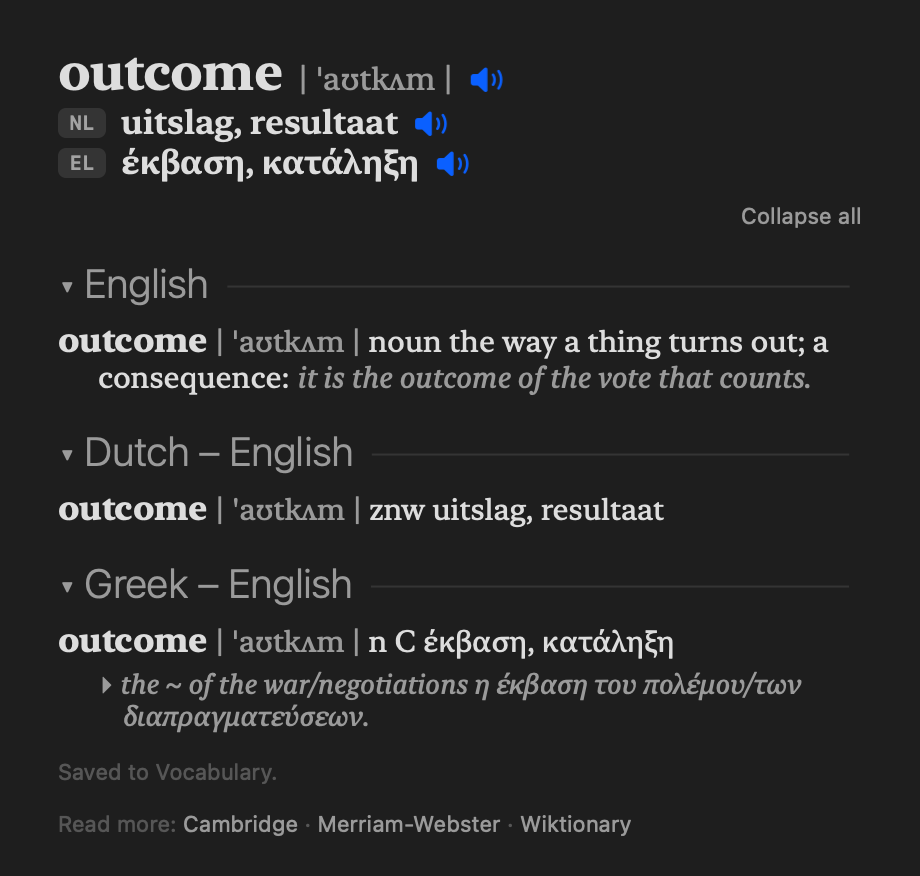
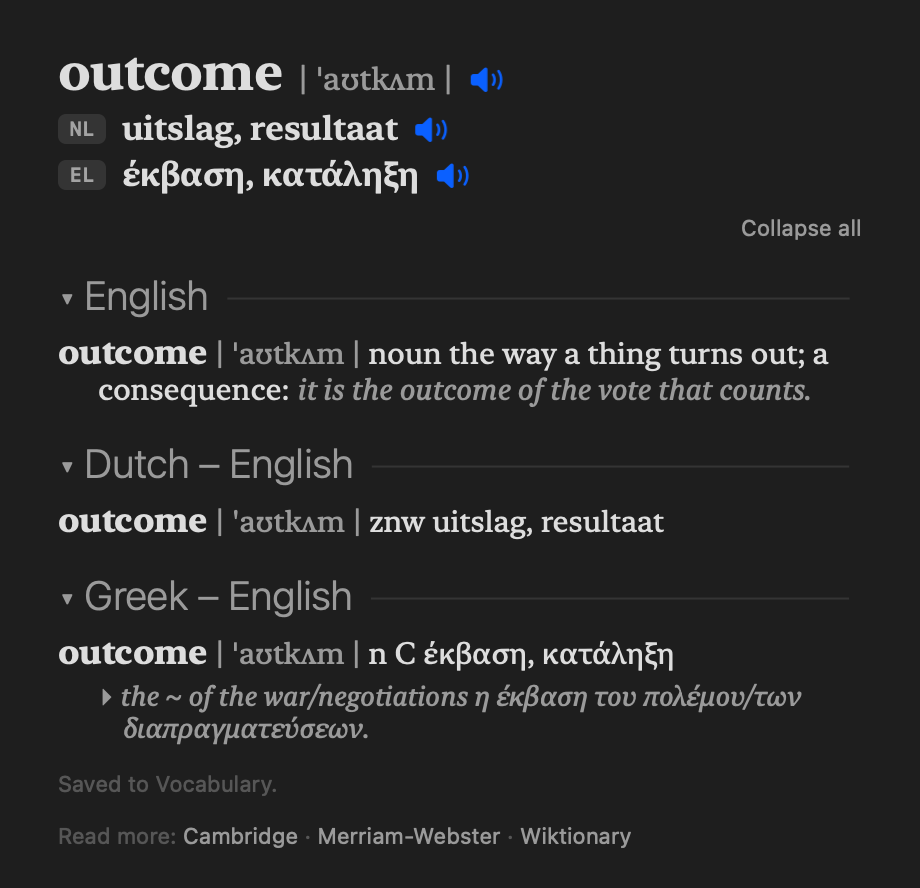
Card: a wrapped translation indented, its speaker kept with the last word; a GIF of the type-a-word box
A long translation wrapped back under its language badge, and the speaker icon could
land alone on the next line ("run" in Dutch). The gap after the badge is now a tab
with wrapped lines indented to it, and no-break spaces and a word joiner keep the icon
with the last word. make-demo.swift draws docs/mode-type.gif: ⌃⌘L, "liep" typed into
the box, Return, and its card; the README shows it under "Or type it". Card images and
GIFs re-rendered.

diff --git a/scripts/make-demo.swift b/scripts/make-demo.swift
@@ -1,4 +1,4 @@
-// Draws docs/demo.gif: a sentence in each language, the pointer moving to a word, a double-tap of ⌥, and the card
+// Draws docs/demo.gif (and the three mode GIFs: selecting, pointing, the type-a-word box): a sentence in each language, the pointer moving to a word, a double-tap of ⌥, and the card
 // Lookup Word shows for it, with the four steps numbered along the bottom. The cards are the app's own, from `LookupWord --render WORD LANG docs/card-….png`; the
 // window, pointer and steps around them are drawn here.
 //
@@ -209,6 +209,92 @@ do {
     scr += tap(at: on, selected: 0)
     scr.append((frame(sc, pointerAt: on, step: 0, card: card, wordRect: w), 3))
     gif("mode-screen.gif", scr, crop: crop)
+}
+
+// the type-a-word box: ⌃⌘L, the box near the top (as Type.swift lays it out: 400 × 44, the magnifier, the field, ⓧ and
+// the pin), the word typed letter by letter, Return, and its card hanging below the box
+do {
+    let sc = Scene(language: "Notes", sentence: "Words to look up later: liep, outcome, είδε.", word: "liep", card: "card-dutch.png")
+    let card = NSImage(contentsOf: docs.appendingPathComponent(sc.card))!
+    card.size = NSSize(width: CGFloat(card.representations[0].pixelsWide) / 2, height: CGFloat(card.representations[0].pixelsHigh) / 2)
+    let box = NSRect(x: (W - 400) / 2, y: 70, width: 400, height: 44)
+    func symbol(_ name: String, _ size: CGFloat, _ color: NSColor, in r: NSRect) {
+        guard let img = NSImage(systemSymbolName: name, accessibilityDescription: nil)?
+            .withSymbolConfiguration(.init(pointSize: size, weight: .regular).applying(.init(paletteColors: [color]))) else { return }
+        img.draw(in: NSRect(x: r.midX - img.size.width / 2, y: r.midY - img.size.height / 2, width: img.size.width, height: img.size.height),
+                 from: .zero, operation: .sourceOver, fraction: 1, respectFlipped: true, hints: nil)
+    }
+    // the keys pressed, as chips in the window's lower right, lit while down
+    func keys(_ labels: [String], lit: Bool) {
+        var x = window.maxX - 30
+        for label in labels.reversed() {
+            let t = NSAttributedString(string: label, attributes: [.font: NSFont.systemFont(ofSize: 22, weight: .medium),
+                                                                   .foregroundColor: lit ? NSColor(white: 0.1, alpha: 1) : NSColor(white: 0.95, alpha: 1)])
+            let r = NSRect(x: x - max(56, t.size().width + 28), y: window.maxY - 82, width: max(56, t.size().width + 28), height: 52)
+            (lit ? NSColor(red: 0.5, green: 0.88, blue: 0.69, alpha: 1) : NSColor(white: 0.32, alpha: 1)).setFill()
+            NSBezierPath(roundedRect: r, xRadius: 10, yRadius: 10).fill()
+            t.draw(at: NSPoint(x: r.midX - t.size().width / 2, y: r.midY - t.size().height / 2))
+            x = r.minX - 10
+        }
+    }
+    func typeFrame(_ text: String?, keysDown: [String] = [], lit: Bool = false, showCard: Bool = false) -> CGImage {
+        let rep = NSBitmapImageRep(bitmapDataPlanes: nil, pixelsWide: Int(W), pixelsHigh: Int(H), bitsPerSample: 8, samplesPerPixel: 4,
+                                   hasAlpha: true, isPlanar: false, colorSpaceName: .deviceRGB, bytesPerRow: 0, bitsPerPixel: 0)!
+        let ctx = NSGraphicsContext(bitmapImageRep: rep)!
+        ctx.cgContext.translateBy(x: 0, y: H); ctx.cgContext.scaleBy(x: 1, y: -1)
+        NSGraphicsContext.current = NSGraphicsContext(cgContext: ctx.cgContext, flipped: true)
+        background.setFill(); NSRect(x: 0, y: 0, width: W, height: H).fill()
+        windowColor.setFill(); NSBezierPath(roundedRect: window, xRadius: 12, yRadius: 12).fill()
+        for (i, c) in [NSColor.systemRed, .systemYellow, .systemGreen].enumerated() {
+            c.setFill(); NSBezierPath(ovalIn: NSRect(x: window.minX + 18 + CGFloat(i) * 20, y: window.minY + 14, width: 12, height: 12)).fill()
+        }
+        NSAttributedString(string: sc.language, attributes: [.font: NSFont.systemFont(ofSize: 13, weight: .medium), .foregroundColor: NSColor(white: 1, alpha: 0.5)])
+            .draw(at: NSPoint(x: window.midX - 20, y: window.minY + 11))
+        NSAttributedString(string: sc.sentence, attributes: [.font: textFont, .foregroundColor: NSColor(white: 0.92, alpha: 1)]).draw(at: textOrigin)
+        if let text {
+            NSGraphicsContext.current?.saveGraphicsState()
+            let shadow = NSShadow(); shadow.shadowBlurRadius = 14; shadow.shadowOffset = NSSize(width: 0, height: -4)
+            shadow.shadowColor = NSColor(white: 0, alpha: 0.35); shadow.set()
+            NSColor(white: 0.2, alpha: 1).setFill(); NSBezierPath(roundedRect: box, xRadius: 10, yRadius: 10).fill()
+            NSGraphicsContext.current?.restoreGraphicsState()
+            symbol("text.magnifyingglass", 15, NSColor(white: 1, alpha: 0.55), in: NSRect(x: box.minX + 14, y: box.minY + 12, width: 20, height: 20))
+            let font = NSFont.systemFont(ofSize: 16)
+            let shown = NSAttributedString(string: text.isEmpty ? "Type a word, then Return" : text,
+                                           attributes: [.font: font, .foregroundColor: NSColor(white: 1, alpha: text.isEmpty ? 0.3 : 0.92)])
+            shown.draw(at: NSPoint(x: box.minX + 44, y: box.midY - shown.size().height / 2))
+            let caretX = box.minX + 44 + (text.isEmpty ? 0 : shown.size().width) + 1
+            NSColor.controlAccentColor.setFill(); NSRect(x: caretX, y: box.midY - 10, width: 2, height: 20).fill()
+            if !text.isEmpty { symbol("xmark.circle.fill", 13, NSColor(white: 1, alpha: 0.3), in: NSRect(x: box.maxX - 64, y: box.minY + 10, width: 24, height: 24)) }
+            symbol("pin", 13, NSColor(white: 1, alpha: 0.55), in: NSRect(x: box.maxX - 38, y: box.minY + 10, width: 24, height: 24))
+        }
+        if showCard {
+            // the card's top part, below the box, with an arrow up to it
+            let width: CGFloat = 420, src = NSRect(x: 0, y: card.size.height - min(card.size.height, 300), width: card.size.width, height: min(card.size.height, 300))
+            let r = NSRect(x: box.midX - width / 2, y: box.maxY + 14, width: width, height: width * src.height / src.width)
+            NSGraphicsContext.current?.saveGraphicsState()
+            let shadow = NSShadow(); shadow.shadowBlurRadius = 18; shadow.shadowColor = NSColor(white: 0, alpha: 0.6); shadow.set()
+            let arrow = NSBezierPath()
+            arrow.move(to: NSPoint(x: box.midX - 11, y: r.minY + 1)); arrow.line(to: NSPoint(x: box.midX, y: r.minY - 11))
+            arrow.line(to: NSPoint(x: box.midX + 11, y: r.minY + 1)); arrow.close()
+            NSColor(white: 0.12, alpha: 1).setFill()
+            let body = NSBezierPath(roundedRect: r, xRadius: 10, yRadius: 10); body.append(arrow); body.fill()
+            NSGraphicsContext.current?.restoreGraphicsState()
+            NSGraphicsContext.current?.saveGraphicsState()
+            NSBezierPath(roundedRect: r, xRadius: 10, yRadius: 10).addClip()
+            card.draw(in: r, from: src, operation: .sourceOver, fraction: 1, respectFlipped: true, hints: [.interpolation: NSImageInterpolation.high])
+            NSGraphicsContext.current?.restoreGraphicsState()
+        }
+        if !keysDown.isEmpty { keys(keysDown, lit: lit) }
+        NSGraphicsContext.current = nil
+        return rep.cgImage!
+    }
+    let shortcut = ["⌃", "⌘", "L"]
+    var typed = [(typeFrame(nil), 0.8), (typeFrame(nil, keysDown: shortcut), 0.3), (typeFrame(nil, keysDown: shortcut, lit: true), 0.25),
+                 (typeFrame("", keysDown: shortcut), 0.6)]
+    for n in 1...sc.word.count { typed.append((typeFrame(String(sc.word.prefix(n))), 0.18)) }
+    typed += [(typeFrame(sc.word, keysDown: ["↩ return"]), 0.35), (typeFrame(sc.word, keysDown: ["↩ return"], lit: true), 0.2),
+              (typeFrame(sc.word, showCard: true), 3.5)]
+    gif("mode-type.gif", typed, crop: CGRect(x: 20, y: 20, width: W - 40, height: H - 40))
 }
 
 let out = docs.appendingPathComponent("demo.gif")

diff --git a/Sources/LookupWord/Card.swift b/Sources/LookupWord/Card.swift
@@ -38,7 +38,8 @@ func badge(_ code: String) -> NSAttributedString {
 // a speaker button that says the text in that language: the system's speaker symbol, in the accent colour
 func speaker(_ text: String, _ lang: String, size: CGFloat = 14) -> NSAttributedString {
     var u = URLComponents(); u.scheme = "say"; u.host = lang; u.queryItems = [URLQueryItem(name: "t", value: text)]
-    let out = NSMutableAttributedString(string: "  ")
+    // no-break spaces and a word joiner: the icon wraps with the last word, never onto a line of its own
+    let out = NSMutableAttributedString(string: "\u{00A0}\u{00A0}\u{2060}")
     let config = NSImage.SymbolConfiguration(pointSize: size, weight: .medium).applying(.init(paletteColors: [.controlAccentColor]))
     if let image = NSImage(systemSymbolName: "speaker.wave.2.fill", accessibilityDescription: "Say it")?.withSymbolConfiguration(config) {
         let a = NSTextAttachment()
@@ -46,7 +47,7 @@ func speaker(_ text: String, _ lang: String, size: CGFloat = 14) -> NSAttributed
         a.bounds = NSRect(x: 0, y: -2, width: image.size.width, height: image.size.height)
         out.append(NSAttributedString(attachment: a))
     } else { out.append(NSAttributedString(string: "🔈")) }
-    out.addAttributes([.link: u.url!, .cursor: NSCursor.pointingHand], range: NSRange(location: 2, length: out.length - 2))
+    out.addAttributes([.link: u.url!, .cursor: NSCursor.pointingHand], range: NSRange(location: 3, length: out.length - 3))
     return out
 }
 
@@ -140,10 +141,13 @@ func card(_ e: Entry, status: String) -> NSAttributedString {
             tag.addAttributes([.link: URL(string: "lookupword://section/\(i)")!, .cursor: NSCursor.pointingHand],
                               range: NSRange(location: 0, length: tag.length))
         }
-        out.append(tag)
-        out.append(run("  ", .systemFont(ofSize: 15)))
-        out.append(run(words, serif(17, .semibold)))
-        out.append(speaker(words, code))
+        // a tab to the words, and a wrapped line indented to them, not back under the badge
+        let line = NSMutableAttributedString(attributedString: tag)
+        line.append(run("\t", .systemFont(ofSize: 15)))
+        line.append(run(words, serif(17, .semibold)))
+        line.append(speaker(words, code))
+        line.addAttribute(.paragraphStyle, value: indent(0, 32, tab: 32), range: NSRange(location: 0, length: line.length))
+        out.append(line)
     }
     // Collapse all (or Expand all), small and muted, at the right above the first dictionary, where its reader is
     if !e.sections.isEmpty {

diff --git a/README.md b/README.md
@@ -155,6 +155,8 @@ and the card appears; the third is a box to type into. To close it, click anywhe
 
 ### 3. Or type it
 
+![Pressing ⌃⌘L, typing "liep" in the box that opens and pressing Return, and the card for "lopen" below the box](docs/mode-type.gif)
+
 - Press **⌃⌘L** (Control, Command and L together; in Settings you can record any other) in any app, or choose **Look Up a Word…** in the menu bar menu.
   A box opens near the top of the screen: type the word, in any of your languages, and press Return. Its card
   shows below the box, and the box keeps the keyboard, so you can type the next word straight away.
